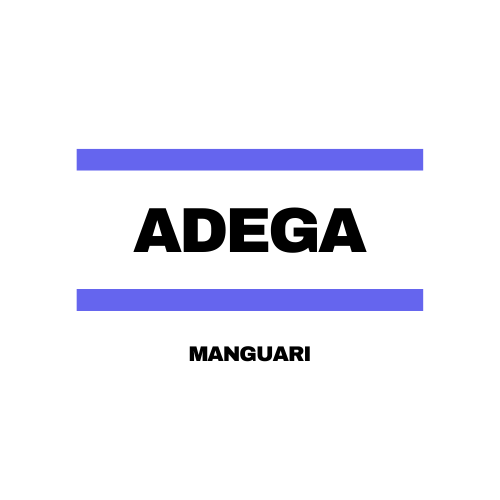
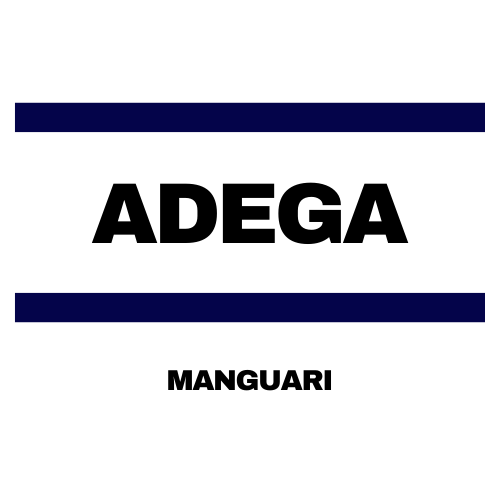
changing css and js

diff --git a/app/public/js/Reports/reports.js b/app/public/js/Reports/reports.js
@@ -1,4 +1,18 @@
 $(function () {
+    $('#selectReports').on('change', '', function (e) {
+        var select = $('#selectReports').val();
+        if (select == 'day') {
+            $('#table_id').append(`
+                <thead style="background-color: #e9ecef">
+                    <tr> 
+                        <th>Vendido por</th>
+                        <th>Produto</th>
+                        <th>Preço</th>
+                    </tr>
+                </thead>
+            `)
+        }
+    });
 
     $("#cash-save").on('click', function () {
         var type = $("#selectReports").val();
@@ -12,17 +26,8 @@ $(function () {
                 method: "GET",
                 data: { start: start, end: end }
             }).done(function (data) {
+                $('#table_id').DataTable().destroy();
                 if (type == 'day') {
-                
-                    $('#table_id').append(`
-                        <thead style="background-color: #e9ecef">
-                            <tr> 
-                                <th>Vendido por</th>
-                                <th>Produto</th>
-                                <th>Preço</th>
-                            </tr>
-                        </thead>
-                    `)
 
                     $('#table_id').dataTable({
                         "dom": 'Bfrtip',
@@ -33,9 +38,9 @@ $(function () {
                         "language": {
                             "url": "//cdn.datatables.net/plug-ins/9dcbecd42ad/i18n/Portuguese.json"
                         },
-                        "columns": [ 
+                        "columns": [
                             { "data": "pt_user_id" },
-                            { "data": "product",className: "product-line"},
+                            { "data": "product", className: "product-line" },
                             { "data": "price" },
                         ]
                     });

diff --git a/app/models/ReportsDAO.js b/app/models/ReportsDAO.js
@@ -5,7 +5,7 @@ function ReportsDAO(connection)
 }
 ReportsDAO.prototype.day = function(start,end,callback){
     this._connection.query(
-        "SELECT pc.id,pu.name as pt_user_id,product,price FROM pt_cash as pc JOIN pt_users as pu ON pu.id = pc.pt_user_id WHERE pc.created_at BETWEEN '2021-01-01 00:00:00' and '2021-01-12 23:59:59';", callback
+        "SELECT pc.id,pu.name as pt_user_id,product,price FROM pt_cash as pc JOIN pt_users as pu ON pu.id = pc.pt_user_id WHERE pc.created_at BETWEEN '"+start+" 00:00:00' and '"+end+" 23:59:59';", callback
     );
     // this._connection.query(
     //     "SELECT * FROM pt_cash WHERE created_at BETWEEN '"+start+" 00:00:00' and '"+end+" 23:59:59' ", callback

diff --git a/app/public/css/Login/style.css b/app/public/css/Login/style.css
@@ -1,3 +1,6 @@
+body{
+    font-family: 'Patrick Hand', cursive;
+}
 .img-responsive{
     width: 100%;
     display: flex; 
@@ -14,13 +17,14 @@
     width: 100%;
     height:7rem;
     font-size: 40pt;
-    background-color: #6565ee;
+    background-color: #04044a;
+    color: #fff;
 }
 label{
     font-size: 60pt;
 }
 input{
-    border: 2px solid #6565ee;
+    border: 2px solid #04044a;
 }
 .alert-danger{
     font-size: 30pt;

diff --git a/app/public/css/Home/style.css b/app/public/css/Home/style.css
@@ -1,3 +1,6 @@
+body{
+    font-family: 'Patrick Hand', cursive;
+}
 .grid-container{
     display: grid;
     grid-template-columns: auto auto;
@@ -13,7 +16,7 @@
     text-align: center;
   }
   .img-responsive{
-      width: 60%;
+      width: 80%;
   }
 .grid-item a{
     text-decoration: none;
@@ -35,7 +38,7 @@
 }
 
 figcaption{
-    font-size: 2.5rem;
+    font-size: 3.4rem;
 }
 
 @media(min-width: 1000px){ 

diff --git a/app/public/css/Reports/style.css b/app/public/css/Reports/style.css
@@ -1,8 +1,11 @@
+body{
+    font-family: 'Patrick Hand', cursive;
+}
 .jumbotron h1{
-    font-size: 60pt;
+    font-size: 70pt;
 }
 .jumbotron .lead{
-    font-size: 30pt;
+    font-size: 40pt;
 }
 #quantity{
     width: 40%;
@@ -20,6 +23,8 @@
 #cash-save{
     display: flex;
     margin: 0 auto;
+    background-color: #04044a;
+    font-size: 2rem;
 }
 #exit{
     text-decoration: none;

diff --git a/app/public/css/Cash/style.css b/app/public/css/Cash/style.css
@@ -1,3 +1,6 @@
+body{
+    font-family: 'Patrick Hand',cursive;
+}
 .jumbotron h1{
     font-size: 60pt;
 }
@@ -20,6 +23,7 @@
     margin: 0 auto;
     margin-top: 4rem;
     font-size: 3rem;
+    background-color: #04044a;
 }
 #return-back-redo-arrow{
     width: 40px;
